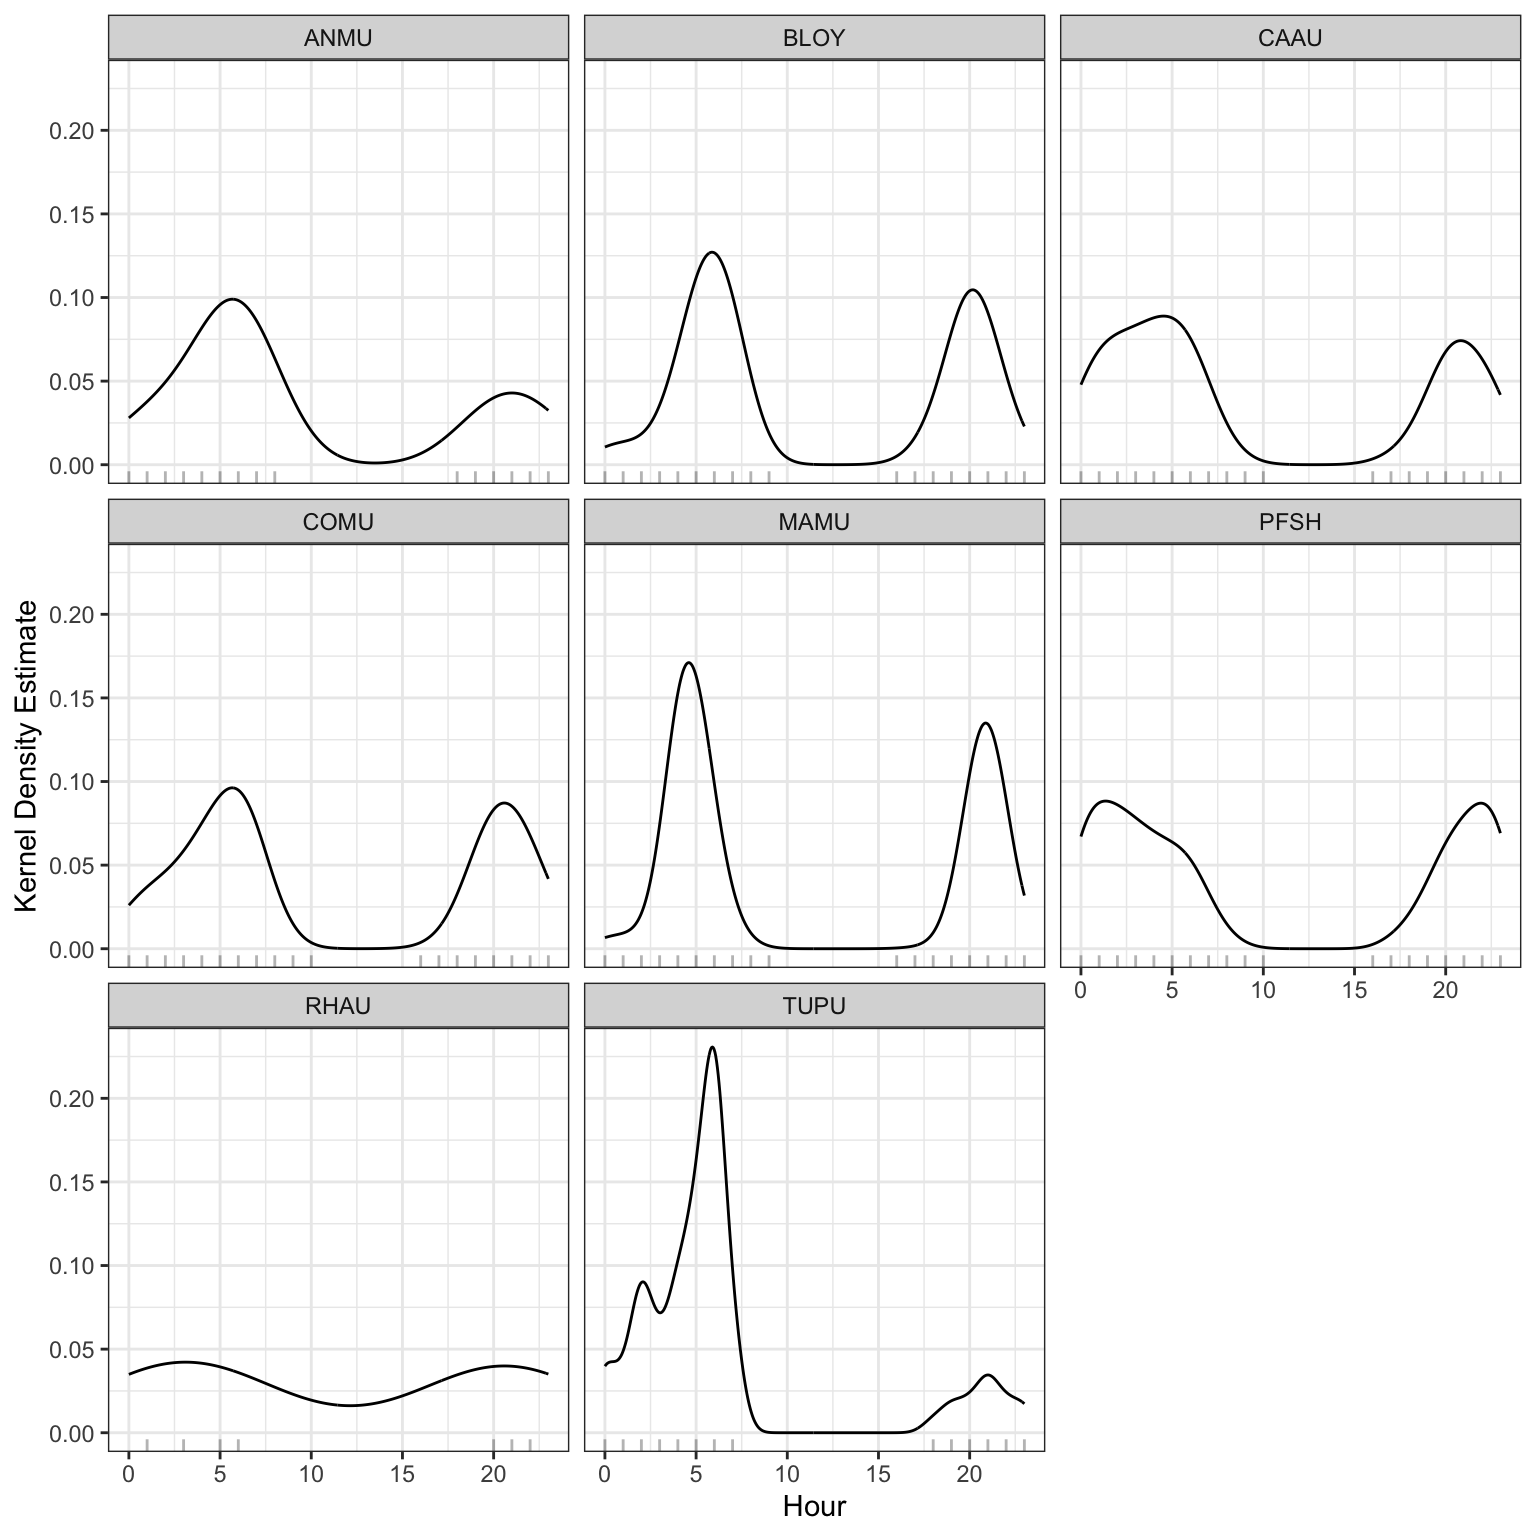
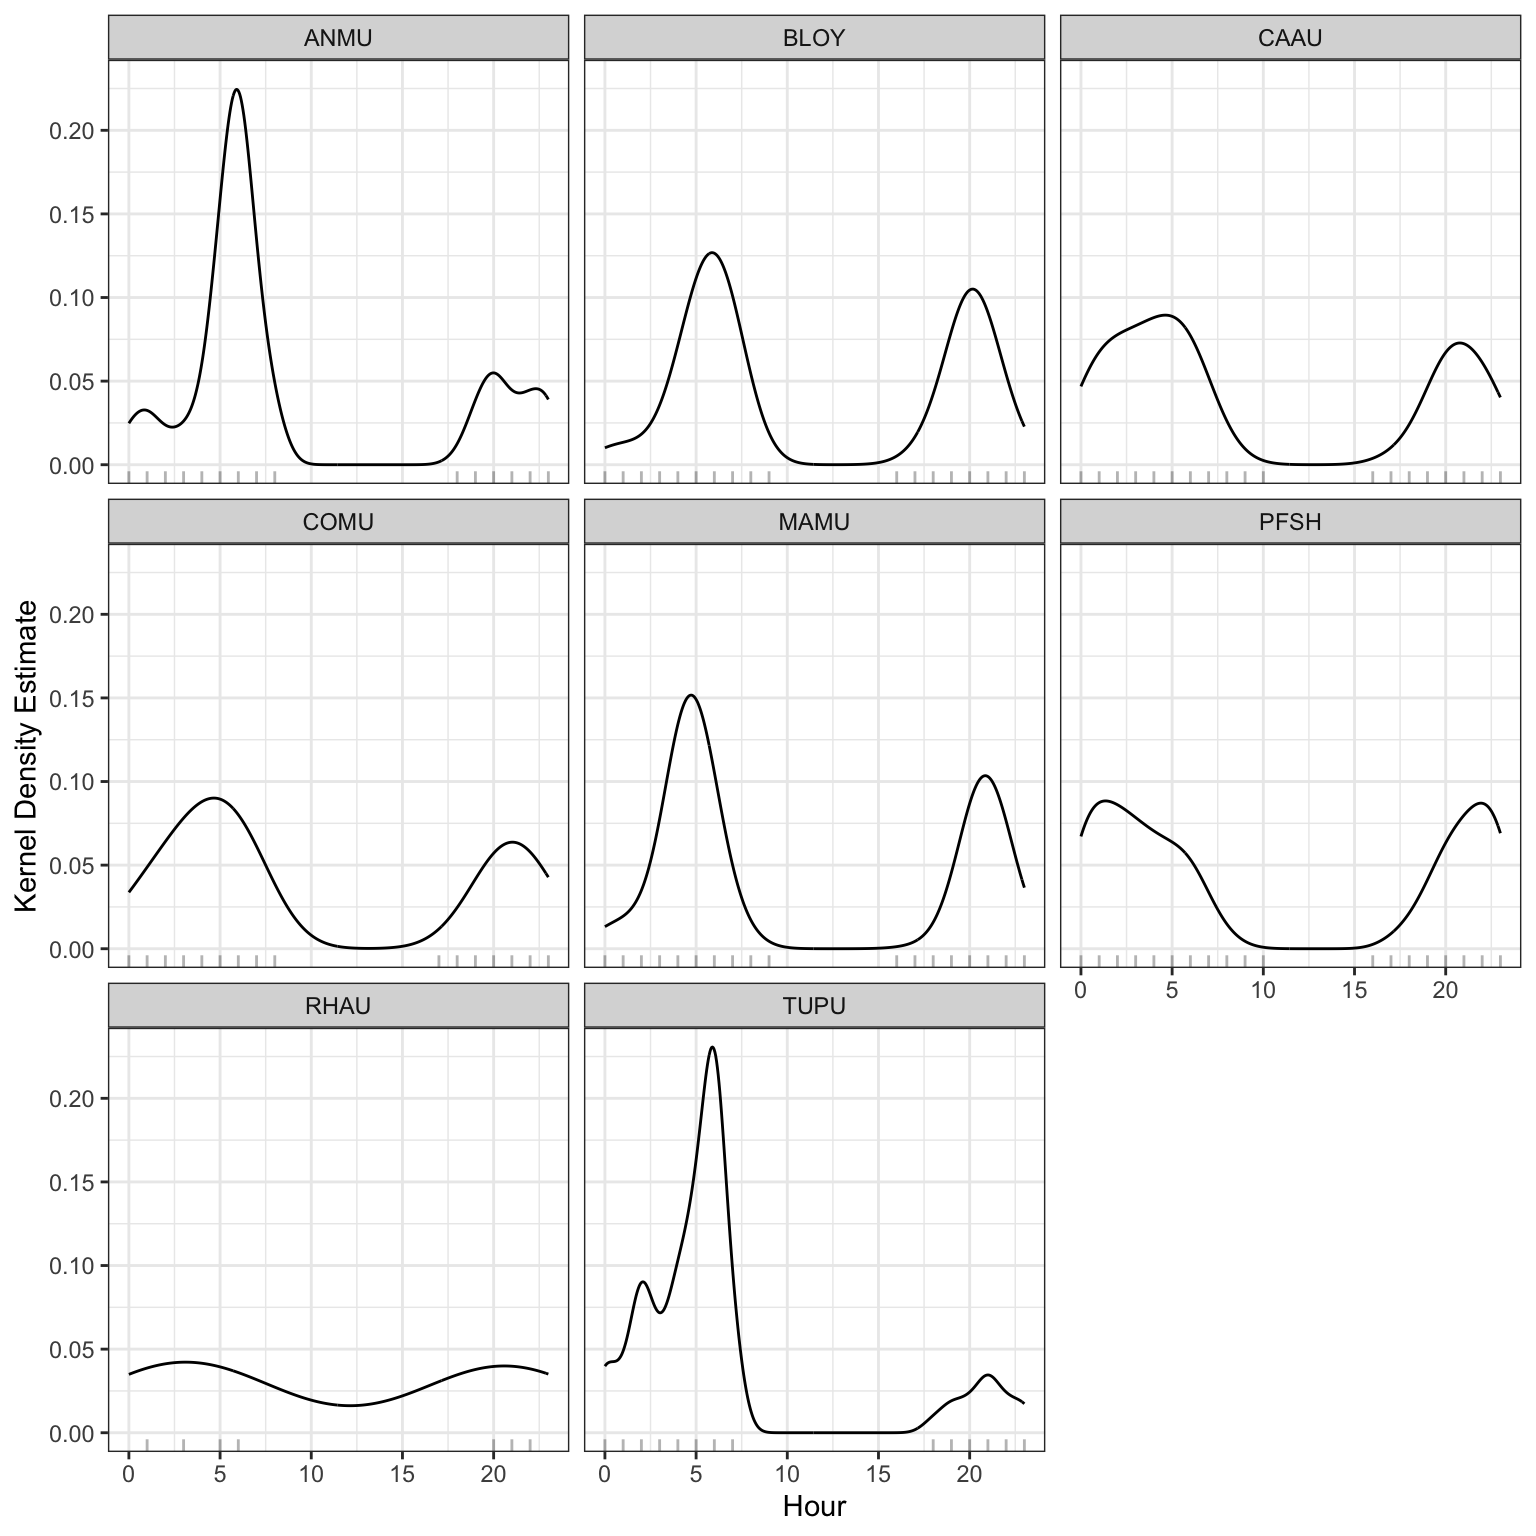
save audit again - try the database query offline for faster results. plot the distr of hawkears scores across tp / fp

diff --git a/lanz-and-cox.html b/lanz-and-cox.html
@@ -11,7 +11,7 @@
 <meta name="author" content="Victoria Berg">
 <meta name="author" content="Erica McClaren">
 <meta name="author" content="Iain Reid">
-<meta name="dcterms.date" content="2026-06-15">
+<meta name="dcterms.date" content="2026-06-16">
 
 <title>Report on the use of passive acoustic monitoring for songbirds and seabirds on Lanz and Cox Islands</title>
 <style>
@@ -186,7 +186,7 @@ div.csl-indent {
     <div>
     <div class="quarto-title-meta-heading">Published</div>
     <div class="quarto-title-meta-contents">
-      <p class="date">June 15, 2026</p>
+      <p class="date">June 16, 2026</p>
     </div>
   </div>
   
@@ -249,8 +249,8 @@ Note
 <div id="fig-aru-monitoring-locations" class="cell-output-display quarto-float quarto-figure quarto-figure-center anchored">
 <figure class="quarto-float quarto-float-fig figure">
 <div aria-describedby="fig-aru-monitoring-locations-caption-0ceaefa1-69ba-4598-a22c-09a6ac19f8ca">
-<div class="leaflet html-widget html-fill-item" id="htmlwidget-3bfd9d3961a8d017815c" style="width:100%;height:464px;"></div>
-<script type="application/json" data-for="htmlwidget-3bfd9d3961a8d017815c">{"x":{"options":{"crs":{"crsClass":"L.CRS.EPSG3857","code":null,"proj4def":null,"projectedBounds":null,"options":{}}},"calls":[{"method":"addTiles","args":["https://{s}.tile.openstreetmap.org/{z}/{x}/{y}.png",null,null,{"minZoom":0,"maxZoom":18,"tileSize":256,"subdomains":"abc","errorTileUrl":"","tms":false,"noWrap":false,"zoomOffset":0,"zoomReverse":false,"opacity":1,"zIndex":1,"detectRetina":false,"attribution":"&copy; <a href=\"https://openstreetmap.org/copyright/\">OpenStreetMap<\/a>,  <a href=\"https://opendatacommons.org/licenses/odbl/\">ODbL<\/a>"}]},{"method":"addCircleMarkers","args":[[50.8023,50.80143,50.78923,50.78969,50.79021,50.80157,50.80359,50.79729,50.79253,50.81005,50.80792,50.80575,50.79417,50.82893,50.81575,50.80884,50.80826,50.80633,50.82519,50.81814,50.81645,50.82627,50.81652,50.81344,50.80638,50.80632,50.82689],[-128.63595,-128.63379,-128.62543,-128.60547,-128.60396,-128.57345,-128.61671,-128.62028,-128.61714,-128.60684,-128.62979,-128.63792,-128.63103,-128.70695,-128.71137,-128.69927,-128.69519,-128.66096,-128.704,-128.70489,-128.70007,-128.68215,-128.66906,-128.66601,-128.65793,-128.66446,-128.7106],6,null,null,{"interactive":true,"className":"","stroke":true,"color":"black","weight":5,"opacity":0.5,"fill":true,"fillColor":"black","fillOpacity":1},null,null,["Location: DC01 <br>","Location: DC02 <br>","Location: DC03 <br>","Location: DC04 <br>","Location: DC05 <br>","Location: DC06 <br>","Location: DC07 <br>","Location: DC09 <br>","Location: DC10 <br>","Location: DC11 <br>","Location: DC12 <br>","Location: DC13 <br>","Location: DC15 <br>","Location: DL01 <br>","Location: DL02 <br>","Location: DL03 <br>","Location: DL04 <br>","Location: DL05 <br>","Location: DL06 <br>","Location: DL07 <br>","Location: DL09 <br>","Location: DL10 <br>","Location: DL11 <br>","Location: DL12 <br>","Location: DL13 <br>","Location: DL14 <br>","Location: DL15 <br>"],null,null,{"interactive":false,"permanent":false,"direction":"auto","opacity":1,"offset":[0,0],"textsize":"10px","textOnly":false,"className":"","sticky":true},null]},{"method":"addMeasure","args":[{"position":"topright","primaryLengthUnit":"meters","primaryAreaUnit":"sqmeters","activeColor":"#ABE67E","completedColor":"#C8F2BE","popupOptions":{"className":"leaflet-measure-resultpopup","autoPanPadding":[10,10]},"captureZIndex":10000,"localization":"en","decPoint":".","thousandsSep":","}]},{"method":"addMiniMap","args":[null,null,"bottomleft",150,150,19,19,-5,false,false,false,false,false,false,{"color":"#ff7800","weight":1,"clickable":false},{"color":"#000000","weight":1,"clickable":false,"opacity":0,"fillOpacity":0},{"hideText":"Hide MiniMap","showText":"Show MiniMap"},[]]}],"limits":{"lat":[50.78923,50.82893],"lng":[-128.71137,-128.57345]}},"evals":[],"jsHooks":[]}</script>
+<div class="leaflet html-widget html-fill-item" id="htmlwidget-9d3961a8d017815c1152" style="width:100%;height:464px;"></div>
+<script type="application/json" data-for="htmlwidget-9d3961a8d017815c1152">{"x":{"options":{"crs":{"crsClass":"L.CRS.EPSG3857","code":null,"proj4def":null,"projectedBounds":null,"options":{}}},"calls":[{"method":"addTiles","args":["https://{s}.tile.openstreetmap.org/{z}/{x}/{y}.png",null,null,{"minZoom":0,"maxZoom":18,"tileSize":256,"subdomains":"abc","errorTileUrl":"","tms":false,"noWrap":false,"zoomOffset":0,"zoomReverse":false,"opacity":1,"zIndex":1,"detectRetina":false,"attribution":"&copy; <a href=\"https://openstreetmap.org/copyright/\">OpenStreetMap<\/a>,  <a href=\"https://opendatacommons.org/licenses/odbl/\">ODbL<\/a>"}]},{"method":"addCircleMarkers","args":[[50.8023,50.80143,50.78923,50.78969,50.79021,50.80157,50.80359,50.79729,50.79253,50.81005,50.80792,50.80575,50.79417,50.82893,50.81575,50.80884,50.80826,50.80633,50.82519,50.81814,50.81645,50.82627,50.81652,50.81344,50.80638,50.80632,50.82689],[-128.63595,-128.63379,-128.62543,-128.60547,-128.60396,-128.57345,-128.61671,-128.62028,-128.61714,-128.60684,-128.62979,-128.63792,-128.63103,-128.70695,-128.71137,-128.69927,-128.69519,-128.66096,-128.704,-128.70489,-128.70007,-128.68215,-128.66906,-128.66601,-128.65793,-128.66446,-128.7106],6,null,null,{"interactive":true,"className":"","stroke":true,"color":"black","weight":5,"opacity":0.5,"fill":true,"fillColor":"black","fillOpacity":1},null,null,["Location: DC01 <br>","Location: DC02 <br>","Location: DC03 <br>","Location: DC04 <br>","Location: DC05 <br>","Location: DC06 <br>","Location: DC07 <br>","Location: DC09 <br>","Location: DC10 <br>","Location: DC11 <br>","Location: DC12 <br>","Location: DC13 <br>","Location: DC15 <br>","Location: DL01 <br>","Location: DL02 <br>","Location: DL03 <br>","Location: DL04 <br>","Location: DL05 <br>","Location: DL06 <br>","Location: DL07 <br>","Location: DL09 <br>","Location: DL10 <br>","Location: DL11 <br>","Location: DL12 <br>","Location: DL13 <br>","Location: DL14 <br>","Location: DL15 <br>"],null,null,{"interactive":false,"permanent":false,"direction":"auto","opacity":1,"offset":[0,0],"textsize":"10px","textOnly":false,"className":"","sticky":true},null]},{"method":"addMeasure","args":[{"position":"topright","primaryLengthUnit":"meters","primaryAreaUnit":"sqmeters","activeColor":"#ABE67E","completedColor":"#C8F2BE","popupOptions":{"className":"leaflet-measure-resultpopup","autoPanPadding":[10,10]},"captureZIndex":10000,"localization":"en","decPoint":".","thousandsSep":","}]},{"method":"addMiniMap","args":[null,null,"bottomleft",150,150,19,19,-5,false,false,false,false,false,false,{"color":"#ff7800","weight":1,"clickable":false},{"color":"#000000","weight":1,"clickable":false,"opacity":0,"fillOpacity":0},{"hideText":"Hide MiniMap","showText":"Show MiniMap"},[]]}],"limits":{"lat":[50.78923,50.82893],"lng":[-128.71137,-128.57345]}},"evals":[],"jsHooks":[]}</script>
 </div>
 <figcaption class="quarto-float-caption-bottom quarto-float-caption quarto-float-fig" id="fig-aru-monitoring-locations-caption-0ceaefa1-69ba-4598-a22c-09a6ac19f8ca">
 Figure&nbsp;1: Locations from Lanz and Cox Provincial Park ARU Monitoring Program
@@ -266,8 +266,8 @@ Table&nbsp;1: Locations surveyed across years. Ones indicated a deployment in th
 </figcaption>
 <div aria-describedby="tbl-loc-summary-caption-0ceaefa1-69ba-4598-a22c-09a6ac19f8ca">
 <div class="cell-output-display">
-<div class="datatables html-widget html-fill-item" id="htmlwidget-1152ce73edfb1cf65296" style="width:100%;height:auto;"></div>
-<script type="application/json" data-for="htmlwidget-1152ce73edfb1cf65296">{"x":{"filter":"none","vertical":false,"data":[["1","2","3","4","5","6","7","8","9","10","11","12","13","14","15","16","17","18","19","20","21","22","23","24","25"],["DL03","DC05","DC04","DL04","DL06","DC15","DL11","DL10","DL12","DC01","DL09","DC11","DC06","DC02","DC10","DL07","DL05","DC07","DC13","DL15","DC09","DL01","DL13","DL02","DC03"],[50.80884,50.79021,50.78969,50.80826,50.82519,50.79417,50.81652,50.82627,50.81344,50.8023,50.81645,50.81005,50.80157,50.80143,50.79253,50.81814,50.80633,50.80359,50.80575,50.82689,50.79729,50.82893,50.80638,50.81575,50.78923],[-128.69927,-128.60396,-128.60547,-128.69519,-128.704,-128.63103,-128.66906,-128.68215,-128.66601,-128.63595,-128.70007,-128.60684,-128.57345,-128.63379,-128.61714,-128.70489,-128.66096,-128.61671,-128.63792,-128.7106,-128.62028,-128.70695,-128.65793,-128.71137,-128.62543],[1,1,1,1,1,1,1,1,1,1,1,1,1,1,1,1,1,1,1,1,1,1,1,1,1],[1,0,0,0,1,1,0,1,1,1,1,1,0,1,1,1,1,1,1,1,1,1,1,1,1]],"container":"<table class=\"display\">\n  <thead>\n    <tr>\n      <th> <\/th>\n      <th>location<\/th>\n      <th>latitude<\/th>\n      <th>longitude<\/th>\n      <th>2025<\/th>\n      <th>2024<\/th>\n    <\/tr>\n  <\/thead>\n<\/table>","options":{"columnDefs":[{"className":"dt-right","targets":[2,3,4,5]},{"orderable":false,"targets":0},{"name":" ","targets":0},{"name":"location","targets":1},{"name":"latitude","targets":2},{"name":"longitude","targets":3},{"name":"2025","targets":4},{"name":"2024","targets":5}],"order":[],"autoWidth":false,"orderClasses":false}},"evals":[],"jsHooks":[]}</script>
+<div class="datatables html-widget html-fill-item" id="htmlwidget-ce73edfb1cf652963642" style="width:100%;height:auto;"></div>
+<script type="application/json" data-for="htmlwidget-ce73edfb1cf652963642">{"x":{"filter":"none","vertical":false,"data":[["1","2","3","4","5","6","7","8","9","10","11","12","13","14","15","16","17","18","19","20","21","22","23","24","25"],["DL03","DC05","DC04","DL04","DL06","DC15","DL11","DL10","DL12","DC01","DL09","DC11","DC06","DC02","DC10","DL07","DL05","DC07","DC13","DL15","DC09","DL01","DL13","DL02","DC03"],[50.80884,50.79021,50.78969,50.80826,50.82519,50.79417,50.81652,50.82627,50.81344,50.8023,50.81645,50.81005,50.80157,50.80143,50.79253,50.81814,50.80633,50.80359,50.80575,50.82689,50.79729,50.82893,50.80638,50.81575,50.78923],[-128.69927,-128.60396,-128.60547,-128.69519,-128.704,-128.63103,-128.66906,-128.68215,-128.66601,-128.63595,-128.70007,-128.60684,-128.57345,-128.63379,-128.61714,-128.70489,-128.66096,-128.61671,-128.63792,-128.7106,-128.62028,-128.70695,-128.65793,-128.71137,-128.62543],[1,1,1,1,1,1,1,1,1,1,1,1,1,1,1,1,1,1,1,1,1,1,1,1,1],[1,0,0,0,1,1,0,1,1,1,1,1,0,1,1,1,1,1,1,1,1,1,1,1,1]],"container":"<table class=\"display\">\n  <thead>\n    <tr>\n      <th> <\/th>\n      <th>location<\/th>\n      <th>latitude<\/th>\n      <th>longitude<\/th>\n      <th>2025<\/th>\n      <th>2024<\/th>\n    <\/tr>\n  <\/thead>\n<\/table>","options":{"columnDefs":[{"className":"dt-right","targets":[2,3,4,5]},{"orderable":false,"targets":0},{"name":" ","targets":0},{"name":"location","targets":1},{"name":"latitude","targets":2},{"name":"longitude","targets":3},{"name":"2025","targets":4},{"name":"2024","targets":5}],"order":[],"autoWidth":false,"orderClasses":false}},"evals":[],"jsHooks":[]}</script>
 </div>
 </div>
 </figure>
@@ -319,8 +319,8 @@ Table&nbsp;2: Count of detections per species
 </figcaption>
 <div aria-describedby="tbl-spp-summary-caption-0ceaefa1-69ba-4598-a22c-09a6ac19f8ca">
 <div class="cell-output-display">
-<div class="datatables html-widget html-fill-item" id="htmlwidget-3642988127a54f8919b7" style="width:100%;height:auto;"></div>
-<script type="application/json" data-for="htmlwidget-3642988127a54f8919b7">{"x":{"filter":"none","vertical":false,"data":[["1","2","3","4","5","6","7","8","9","10","11","12","13","14","15","16","17","18","19","20","21","22","23","24","25","26","27","28","29","30"],["Hermit Thrush","Swainson's Thrush","Orange-crowned Warbler","Pacific Wren","Varied Thrush","Golden-crowned Kinglet","Dark-eyed Junco","Fox Sparrow","Song Sparrow","American Robin","Western Flycatcher","Townsend's Warbler","American Crow","Pine Siskin","Bald eagle","Chestnut-backed Chickadee","Glaucous-winged Gull","Red Crossbill","Cassin's Auklet","Marbled Murrelet","Bewick's Wren","Black Oystercatcher","Brown Creeper","Cedar Waxwing","Steller's Jay","Common Raven","Sea Otter","Steller Sea Lion","Wilson's Warbler","Wood Duck"],[197,197,124,106,69,63,53,53,52,38,38,30,29,21,18,15,8,8,3,3,2,2,2,2,2,1,1,1,1,1]],"container":"<table class=\"display\">\n  <thead>\n    <tr>\n      <th> <\/th>\n      <th>Species<\/th>\n      <th>Count of detections<\/th>\n    <\/tr>\n  <\/thead>\n<\/table>","options":{"columnDefs":[{"className":"dt-right","targets":2},{"orderable":false,"targets":0},{"name":" ","targets":0},{"name":"Species","targets":1},{"name":"Count of detections","targets":2}],"order":[],"autoWidth":false,"orderClasses":false}},"evals":[],"jsHooks":[]}</script>
+<div class="datatables html-widget html-fill-item" id="htmlwidget-988127a54f8919b703b4" style="width:100%;height:auto;"></div>
+<script type="application/json" data-for="htmlwidget-988127a54f8919b703b4">{"x":{"filter":"none","vertical":false,"data":[["1","2","3","4","5","6","7","8","9","10","11","12","13","14","15","16","17","18","19","20","21","22","23","24","25","26","27","28","29","30"],["Hermit Thrush","Swainson's Thrush","Orange-crowned Warbler","Pacific Wren","Varied Thrush","Golden-crowned Kinglet","Dark-eyed Junco","Fox Sparrow","Song Sparrow","American Robin","Western Flycatcher","Townsend's Warbler","American Crow","Pine Siskin","Bald eagle","Chestnut-backed Chickadee","Glaucous-winged Gull","Red Crossbill","Cassin's Auklet","Marbled Murrelet","Bewick's Wren","Black Oystercatcher","Brown Creeper","Cedar Waxwing","Steller's Jay","Common Raven","Sea Otter","Steller Sea Lion","Wilson's Warbler","Wood Duck"],[197,197,124,106,69,63,53,53,52,38,38,30,29,21,18,15,8,8,3,3,2,2,2,2,2,1,1,1,1,1]],"container":"<table class=\"display\">\n  <thead>\n    <tr>\n      <th> <\/th>\n      <th>Species<\/th>\n      <th>Count of detections<\/th>\n    <\/tr>\n  <\/thead>\n<\/table>","options":{"columnDefs":[{"className":"dt-right","targets":2},{"orderable":false,"targets":0},{"name":" ","targets":0},{"name":"Species","targets":1},{"name":"Count of detections","targets":2}],"order":[],"autoWidth":false,"orderClasses":false}},"evals":[],"jsHooks":[]}</script>
 </div>
 </div>
 </figure>
@@ -450,7 +450,7 @@ Figure&nbsp;10: HawkEars 1.0.8 performance evaluation
 </section>
 <section id="hawkears-2.0" class="level2">
 <h2 class="anchored" data-anchor-id="hawkears-2.0">HawkEars 2.0</h2>
-<p>Initial runs of HawkEars 2.0 were conducted yielding 109765 seabird detections in a total of 109765 recordings or 45.13 % of the total audio dataset. PFSH had the most HawkEars detections. CAAU, MAMU and COMU were the next most frequently detected species, with more scores in the lower and mid confidence range (0.-0.25 and 0.25-0.5). ANMU, RHAU and TUPU were detected much less overall than the other three seabird species, generally with lower confidence scores. Leach’s Storm-petrels (LESP), Black-footed Albatross (BFAB) and Short-tailed Albatross (STAB) were not included in the HawkEars 2.0 model due to limited accessible and public recordings to use for training. These species may be included in future HawkEars models if more or better training data is available.</p>
+<p>Initial runs of HawkEars 2.0 were conducted yielding 109765 seabird detections in a total of 109765 recordings or 45.13 % of the total audio dataset. PFSH had the most HawkEars detections. CAAU, MAMU and COMU were the next most frequently detected species, with more scores in the lower and mid confidence range (0.-0.25 and 0.25-0.5). ANMU, RHAU and TUPU were detected much less overall than the other three seabird species, generally with lower confidence scores.</p>
 <div class="cell" data-layout-align="center">
 <div class="cell-output-display">
 <div id="fig-raw-he2-proportions" class="quarto-float quarto-figure quarto-figure-center anchored" data-fig-align="center">
@@ -466,6 +466,20 @@ Figure&nbsp;11: Species detections across classifier score bins, following manua
 </div>
 </div>
 <p>Across all 2463 tags assessed, 2056 (83%) have been manually verified, while 407 remain unreviewed. Verification involved manual inspection of classifier outputs and reassignment of detections to correct acoustic categories; tags reassigned to non-seabird classes (NOISE, HUMVOC, UNIN, HETH, PAWR, TOWA, UNBI) represent confirmed false positives of the seabird classifier. Among target seabird taxa, performance varies substantially across species. TUPU had the largest number of detections (7 total tags), of which 7 were verified; the majority of reviewed detections were reassigned, yielding a verified false positive rate of 86%. RHAU showed similarly high error rates, with 15 verified tags and a false positive rate of 93%. ANMU also exhibited strong misclassification within the reviewed subset, with 14 verified tags and a false positive rate of 93%, with a small number of detections (4) remaining unreviewed. MAMU and COMU remain highly uncertain due to large proportions of unverified detections. For MAMU, 57 of 123 tags remain unverified, and the majority of reviewed detections were reassigned (97% verified false positives). COMU shows a lower but still elevated verified false positive rate of 93%, with 102 unverified tags remaining. CAAU is now represented by a verified sample of 5 tags, the vast majority of which were reassigned as false positives, resulting in a verified false positive rate of 80%. The majority of detections (81) remain unreviewed, limiting inference. PFSH shows minimal misclassification within the verified subset (1520 verified tags, 1% false positive rate), although a substantial number of detections (109) remain unverified, meaning performance may change with full review. BLOY similarly demonstrates strong performance in the reviewed subset, with 32 verified tag and no false positives, although 36 detections remain unverified. Non-seabird reassignment categories collectively account for 146 tags, representing instances where the seabird classifier incorrectly assigned detections. Among these, NOISE dominates with 48 total tags, followed by UNIN with 13, indicating that environmental noise and insect vocalisations are the primary sources of misclassification in this dataset.</p>
+<div class="cell" data-layout-align="center">
+<div class="cell-output-display">
+<div id="fig-he2-final" class="quarto-float quarto-figure quarto-figure-center anchored" data-fig-align="center">
+<figure class="quarto-float quarto-float-fig figure">
+<div aria-describedby="fig-he2-final-caption-0ceaefa1-69ba-4598-a22c-09a6ac19f8ca">
+<img src="lanz-and-cox_files/figure-html/fig-he2-final-1.png" class="img-fluid quarto-figure quarto-figure-center figure-img" width="672">
+</div>
+<figcaption class="quarto-float-caption-bottom quarto-float-caption quarto-float-fig" id="fig-he2-final-caption-0ceaefa1-69ba-4598-a22c-09a6ac19f8ca">
+Figure&nbsp;12: Distribution of true and false positives by score for each detection by HawkEars after human validation.
+</figcaption>
+</figure>
+</div>
+</div>
+</div>
 <div class="cell">
 <div id="tbl-fp-rates" class="cell quarto-float quarto-figure quarto-figure-center anchored">
 <figure class="quarto-float quarto-float-tbl figure">
@@ -474,8 +488,8 @@ Table&nbsp;3: Rates of verification and classification for seabirds
 </figcaption>
 <div aria-describedby="tbl-fp-rates-caption-0ceaefa1-69ba-4598-a22c-09a6ac19f8ca">
 <div class="cell-output-display">
-<div class="datatables html-widget html-fill-item" id="htmlwidget-03b4e787d70d5f8fe46a" style="width:100%;height:auto;"></div>
-<script type="application/json" data-for="htmlwidget-03b4e787d70d5f8fe46a">{"x":{"filter":"none","vertical":false,"data":[["1","2","3","4","5","6","7","8","9","10","11","12","13","14","15","16","17","18","19","20","21","22","23","24","25","26","27","28","29","30","31","32","33","34","35","36","37","38","39","40","41","42","43","44","45","46"],["AMCR","AMPI","AMRO","AMWI","ANMU","BAEA","BLOY","CAAU","CANG","COMU","EUMJUB","FOSP","GCKI","GRCA","GWFG","HETH","HUMNON","HUMVOC","MAMU","MOAI","NOFL","NOISE","NSWO","OCWA","PAWR","PFSH","PISI","RECR","RESQ","RHAU","SOSP","SWTH","TOWA","TUPU","UNBI","UNGU","UNHU","UNIN","UNKN","UNPA","UNTH","UNTR","UNWO","VATH","WEFL",null],["American Crow","American Pipit","American Robin","American Wigeon","Ancient Murrelet","Bald eagle","Black Oystercatcher","Cassin's Auklet","Canada Goose","Common Murre","Steller Sea Lion","Fox Sparrow","Golden-crowned Kinglet","Gray Catbird","Greater White-fronted Goose","Hermit Thrush","Human Activity non-vocal","Human Activity vocal","Marbled Murrelet","Moderate aircraft","Northern Flicker","Noise","Northern Saw-whet Owl","Orange-crowned Warbler","Pacific Wren","Pink-footed Shearwater","Pine Siskin","Red Crossbill","Red Squirrel","Rhinoceros Auklet","Song Sparrow","Swainson's Thrush","Townsend's Warbler","Tufted Puffin","Unidentified Bird","Unidentified Gull","Unidentified Hummingbird","Unidentified insect","Unidentified signal","Unidentified Passerine","Unidentified Thrush","Unidentified Trill","Unidentified Woodpecker","Varied Thrush","Western Flycatcher",null],[343,1,1457,1,7690,66,2367,5234,1,6216,22,1115,2,2,12,11392,15,103,17200,2,11,5147,1,11,40,17752,15,406,1,158,8,856,17,496,66,25,2,357,6394,57,39,1,5,19,10,8],[343,1,1456,1,7573,66,1704,3119,1,2834,20,1114,2,2,12,11348,15,89,14745,2,11,5140,1,11,39,15673,15,406,1,105,8,855,17,435,58,25,2,355,6394,57,39,1,5,19,10,8],[0,0,0,0,7560,0,568,2194,0,2552,0,0,0,0,0,3,0,0,14626,0,0,0,0,0,0,350,0,0,0,94,0,0,0,352,0,0,0,0,0,0,0,0,0,0,0,0],[0,0,1,0,117,0,663,2115,0,3382,2,1,0,0,0,44,0,14,2455,0,0,7,0,0,1,2079,0,0,0,53,0,1,0,61,8,0,0,2,0,0,0,0,0,0,0,0],[0,0,0,0,1,0,0.33,0.7,0,0.9,0,0,0,0,0,0,0,0,0.99,0,0,0,0,0,0,0.02,0,0,0,0.9,0,0,0,0.8100000000000001,0,0,0,0,0,0,0,0,0,0,0,0],[1,1,1,1,0,1,0.67,0.3,1,0.1,1,1,1,1,1,1,1,1,0.01,1,1,1,1,1,1,0.98,1,1,1,0.1,1,1,1,0.19,1,1,1,1,1,1,1,1,1,1,1,1]],"container":"<table class=\"display\">\n  <thead>\n    <tr>\n      <th> <\/th>\n      <th>source_species_code<\/th>\n      <th>source_species_common_name<\/th>\n      <th>total_tags<\/th>\n      <th>verified_tags<\/th>\n      <th>false_positives<\/th>\n      <th>unverified_tags<\/th>\n      <th>fp_rate_verified<\/th>\n      <th>tp_rate_verified<\/th>\n    <\/tr>\n  <\/thead>\n<\/table>","options":{"columnDefs":[{"className":"dt-right","targets":[3,4,5,6,7,8]},{"orderable":false,"targets":0},{"name":" ","targets":0},{"name":"source_species_code","targets":1},{"name":"source_species_common_name","targets":2},{"name":"total_tags","targets":3},{"name":"verified_tags","targets":4},{"name":"false_positives","targets":5},{"name":"unverified_tags","targets":6},{"name":"fp_rate_verified","targets":7},{"name":"tp_rate_verified","targets":8}],"order":[],"autoWidth":false,"orderClasses":false}},"evals":[],"jsHooks":[]}</script>
+<div class="datatables html-widget html-fill-item" id="htmlwidget-e787d70d5f8fe46acef9" style="width:100%;height:auto;"></div>
+<script type="application/json" data-for="htmlwidget-e787d70d5f8fe46acef9">{"x":{"filter":"none","vertical":false,"data":[["1","2","3","4","5","6","7","8","9","10","11","12","13","14","15","16","17","18","19","20","21","22","23","24","25","26","27","28","29","30","31","32","33","34","35","36","37","38","39","40","41","42","43","44","45","46","47","48","49"],["AMCR","AMPI","AMRO","AMWI","ANMU","BAEA","BLOY","CAAU","CANG","COMU","DEJU","EUMJUB","FOSP","GCKI","GRCA","GWFG","HETH","HUMNON","HUMVOC","MAMU","MOAI","NOFL","NOISE","NSWO","OCWA","PAWR","PFSH","PISI","RECR","RESQ","RHAU","SOSP","SWTH","TOWA","TUPU","UNBI","UNFL","UNGU","UNHU","UNIN","UNKN","UNMA","UNPA","UNTH","UNTR","UNWO","VATH","VGSW","WEFL"],["American Crow","American Pipit","American Robin","American Wigeon","Ancient Murrelet","Bald eagle","Black Oystercatcher","Cassin's Auklet","Canada Goose","Common Murre","Dark-eyed Junco","Steller Sea Lion","Fox Sparrow","Golden-crowned Kinglet","Gray Catbird","Greater White-fronted Goose","Hermit Thrush","Human Activity non-vocal","Human Activity vocal","Marbled Murrelet","Moderate aircraft","Northern Flicker","Noise","Northern Saw-whet Owl","Orange-crowned Warbler","Pacific Wren","Pink-footed Shearwater","Pine Siskin","Red Crossbill","Red Squirrel","Rhinoceros Auklet","Song Sparrow","Swainson's Thrush","Townsend's Warbler","Tufted Puffin","Unidentified Bird","Unidentified Flycatcher","Unidentified Gull","Unidentified Hummingbird","Unidentified insect","Unidentified signal","Unidentified Mammal","Unidentified Passerine","Unidentified Thrush","Unidentified Trill","Unidentified Woodpecker","Varied Thrush","Violet-green Swallow","Western Flycatcher"],[473,1,937,1,4683,81,5941,14406,1,8047,1,23,1249,2,2,12,10390,14,89,22870,2,12,5864,1,12,47,52972,27,407,1,145,9,993,17,508,68,1,38,2,353,3674,1,108,38,1,5,13,1,12],[473,1,936,1,4500,77,2739,3812,1,3403,0,22,1248,2,2,12,10357,14,78,13458,2,12,5805,1,11,40,15735,26,407,1,107,9,977,17,437,59,0,38,2,353,3657,0,60,38,1,5,13,0,12],[0,0,0,0,4494,0,605,2889,0,2992,0,0,0,0,0,0,2,0,0,13378,0,0,0,0,0,0,346,0,0,0,98,0,0,0,357,0,0,0,0,0,0,0,0,0,0,0,0,0,0],[0,0,1,0,183,4,3202,10594,0,4644,1,1,1,0,0,0,33,0,11,9412,0,0,59,0,1,7,37237,1,0,0,38,0,16,0,71,9,1,0,0,0,17,1,48,0,0,0,0,1,0],[0,0,0,0,1,0,0.22,0.76,0,0.88,null,0,0,0,0,0,0,0,0,0.99,0,0,0,0,0,0,0.02,0,0,0,0.92,0,0,0,0.82,0,null,0,0,0,0,null,0,0,0,0,0,null,0],[1,1,1,1,0,1,0.78,0.24,1,0.12,null,1,1,1,1,1,1,1,1,0.01,1,1,1,1,1,1,0.98,1,1,1,0.08,1,1,1,0.18,1,null,1,1,1,1,null,1,1,1,1,1,null,1]],"container":"<table class=\"display\">\n  <thead>\n    <tr>\n      <th> <\/th>\n      <th>source_species_code<\/th>\n      <th>source_species_common_name<\/th>\n      <th>total_tags<\/th>\n      <th>verified_tags<\/th>\n      <th>false_positives<\/th>\n      <th>unverified_tags<\/th>\n      <th>fp_rate_verified<\/th>\n      <th>tp_rate_verified<\/th>\n    <\/tr>\n  <\/thead>\n<\/table>","options":{"columnDefs":[{"className":"dt-right","targets":[3,4,5,6,7,8]},{"orderable":false,"targets":0},{"name":" ","targets":0},{"name":"source_species_code","targets":1},{"name":"source_species_common_name","targets":2},{"name":"total_tags","targets":3},{"name":"verified_tags","targets":4},{"name":"false_positives","targets":5},{"name":"unverified_tags","targets":6},{"name":"fp_rate_verified","targets":7},{"name":"tp_rate_verified","targets":8}],"order":[],"autoWidth":false,"orderClasses":false}},"evals":[],"jsHooks":[]}</script>
 </div>
 </div>
 </figure>
@@ -484,7 +498,7 @@ Table&nbsp;3: Rates of verification and classification for seabirds
 </section>
 <section id="seabird-relative-abundance-and-activity" class="level2">
 <h2 class="anchored" data-anchor-id="seabird-relative-abundance-and-activity">Seabird relative abundance and activity</h2>
-<p>Spatial patterns of seabird relative abundance across the Scott Islands are shown in <a href="#fig-heatmap-seabirds" class="quarto-xref">Figure&nbsp;12</a>. Detection intensity exhibited strong spatial clustering, with activity concentrated predominantly in the northwestern portion of Lanz Island. Two distinct hotspots were identified in the northwest and west-central areas of Lanz Island, with intensity declining steeply eastward across the island. Cox Island displayed comparatively lower and more spatially uniform detection intensity overall, though notable areas of elevated abundance were observed in both the western and eastern portions of the island. Diel patterns of seabird detections can also be found in <a href="#fig-diel-day-seabird" class="quarto-xref">Figure&nbsp;13</a> and <a href="#fig-season-seabird" class="quarto-xref">Figure&nbsp;14</a>. Median julian date of detections was 210 (July 29th) and the most common hours of detections were between dusk hour and before sunrise.</p>
+<p>Spatial patterns of seabird relative abundance across the Scott Islands are shown in <a href="#fig-heatmap-seabirds" class="quarto-xref">Figure&nbsp;13</a>. Detection intensity exhibited strong spatial clustering, with activity concentrated predominantly in the northwestern portion of Lanz Island. Two distinct hotspots were identified in the northwest and west-central areas of Lanz Island, with intensity declining steeply eastward across the island. Cox Island displayed comparatively lower and more spatially uniform detection intensity overall, though notable areas of elevated abundance were observed in both the western and eastern portions of the island. Diel patterns of seabird detections can also be found in <a href="#fig-diel-day-seabird" class="quarto-xref">Figure&nbsp;14</a> and <a href="#fig-season-seabird" class="quarto-xref">Figure&nbsp;15</a>. Median julian date of detections was 210 (July 29th) and the most common hours of detections were between dusk hour and before sunrise.</p>
 <div class="cell">
 <div class="cell-output-display">
 <div id="fig-heatmap-seabirds" class="quarto-float quarto-figure quarto-figure-center anchored">
@@ -493,7 +507,7 @@ Table&nbsp;3: Rates of verification and classification for seabirds
 <img src="lanz-and-cox_files/figure-html/fig-heatmap-seabirds-1.png" class="img-fluid figure-img" width="672">
 </div>
 <figcaption class="quarto-float-caption-bottom quarto-float-caption quarto-float-fig" id="fig-heatmap-seabirds-caption-0ceaefa1-69ba-4598-a22c-09a6ac19f8ca">
-Figure&nbsp;12: Heatmap of seabird detections across Lanz and Cox Islands.
+Figure&nbsp;13: Heatmap of seabird detections across Lanz and Cox Islands.
 </figcaption>
 </figure>
 </div>
@@ -507,7 +521,7 @@ Figure&nbsp;12: Heatmap of seabird detections across Lanz and Cox Islands.
 <img src="lanz-and-cox_files/figure-html/fig-diel-day-seabird-1.png" class="img-fluid figure-img" width="768">
 </div>
 <figcaption class="quarto-float-caption-bottom quarto-float-caption quarto-float-fig" id="fig-diel-day-seabird-caption-0ceaefa1-69ba-4598-a22c-09a6ac19f8ca">
-Figure&nbsp;13: Kernel density estimate of seabird detectons by time of year (julian date). Rug plots indicate sample size of detections.
+Figure&nbsp;14: Kernel density estimate of seabird detectons by time of year (julian date). Rug plots indicate sample size of detections.
 </figcaption>
 </figure>
 </div>
@@ -521,7 +535,7 @@ Figure&nbsp;13: Kernel density estimate of seabird detectons by time of year (ju
 <img src="lanz-and-cox_files/figure-html/fig-season-seabird-1.png" class="img-fluid figure-img" width="768">
 </div>
 <figcaption class="quarto-float-caption-bottom quarto-float-caption quarto-float-fig" id="fig-season-seabird-caption-0ceaefa1-69ba-4598-a22c-09a6ac19f8ca">
-Figure&nbsp;14: Kernel density estimates oF seabird detections by hour of the day (Oh00 - 23h00). Rug plots indicate sample size of detections.
+Figure&nbsp;15: Kernel density estimates oF seabird detections by hour of the day (Oh00 - 23h00). Rug plots indicate sample size of detections.
 </figcaption>
 </figure>
 </div>
@@ -533,7 +547,8 @@ Figure&nbsp;14: Kernel density estimates oF seabird detections by hour of the da
 <h1>Discussion and recommendations</h1>
 <section id="sec-disc-classifier" class="level2">
 <h2 class="anchored" data-anchor-id="sec-disc-classifier">Acoustic classifier performance and seabirds</h2>
-<p>This program produced a data set of sufficient resolution to support long-term passive monitoring programs, offering a scalable and repeatable method for processing large volumes of acoustic data. Misclassification rates and false positives remain an inherent limitation of automated classifiers, particularly in field conditions where behavioural overlap between sound categories is common. Seabirds frequently produce detectable acoustic signals across multiple behavioural states simultaneously, vocalization, preening, and on-water activity often co-occur, complicating clean categorical assignment (<span class="citation" data-cites="cerqueira2025automated">da Silva Cerqueira et al. (<a href="#ref-cerqueira2025automated" role="doc-biblioref">2025</a>)</span>). This reflects the ecological realism of field recordings rather than a failure of the classification approach, and should be accounted for when interpreting detection outputs. For future long-term deployments, a sampling rate of 22 kHz is likely sufficient given that the dominant frequencies of seabird vocalizations typically fall below 10 kHz, which would reduce storage requirements and extend battery life without meaningful loss of biological signal (<span class="citation" data-cites="podolskiy2024acoustic">Podolskiy et al. (<a href="#ref-podolskiy2024acoustic" role="doc-biblioref">2024</a>)</span>). It’s worth noting that these classifiers were trained and tested on datasets that included seabirds, but a more reliable assessment of their performance would involve testing them at sites where the species is actually known to be present and successfully breeding.</p>
+<p>This program produced a data set of sufficient resolution to support long-term passive monitoring programs, offering a scalable and repeatable method for processing large volumes of acoustic data. Misclassification rates and false positives remain an inherent limitation of the use of multi-species automated classifiers, particularly in field conditions where behavioural overlap between sound categories is common. Seabirds frequently produce detectable acoustic signals across multiple behavioural states simultaneously, vocalization, preening, and on-water activity often co-occur, complicating clean categorical assignment (<span class="citation" data-cites="cerqueira2025automated">da Silva Cerqueira et al. (<a href="#ref-cerqueira2025automated" role="doc-biblioref">2025</a>)</span>). This reflects the ecological reality of these field recordings rather than a failure of the classification approach, and should be accounted for when interpreting detection outputs.</p>
+<p>For future long-term deployments, a sampling rate of 22 kHz is likely sufficient given that the dominant frequencies of seabird vocalizations typically fall below 10 kHz, which would reduce storage requirements and extend battery life without meaningful loss of biological signal (<span class="citation" data-cites="podolskiy2024acoustic">Podolskiy et al. (<a href="#ref-podolskiy2024acoustic" role="doc-biblioref">2024</a>)</span>). It’s worth noting that these classifiers were trained and tested on datasets that included seabirds, but a more reliable assessment of their performance would involve testing them at sites where the species is actually known to be present and successfully breeding.</p>
 </section>
 <section id="coastal-monitoring" class="level2">
 <h2 class="anchored" data-anchor-id="coastal-monitoring">Coastal monitoring</h2>